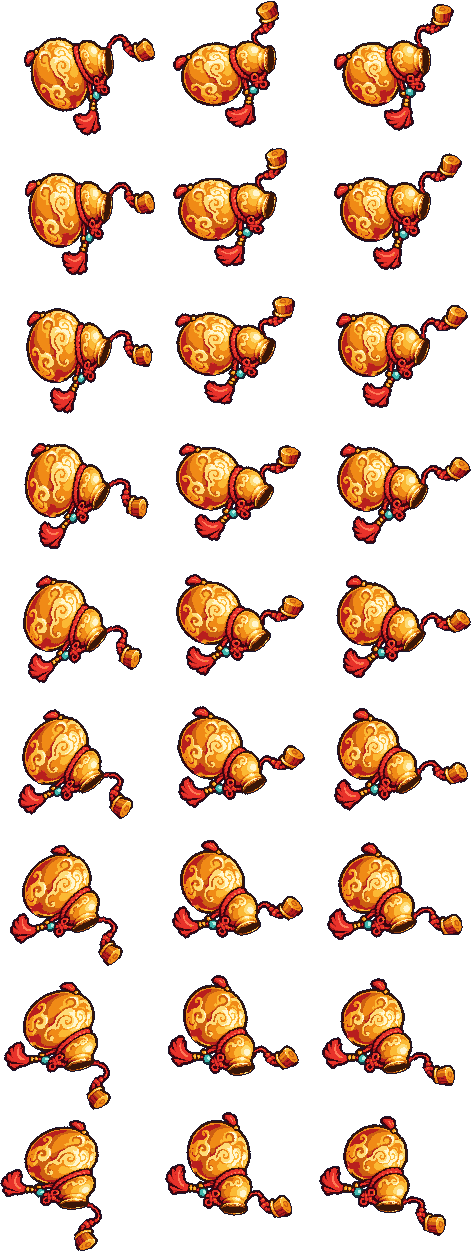
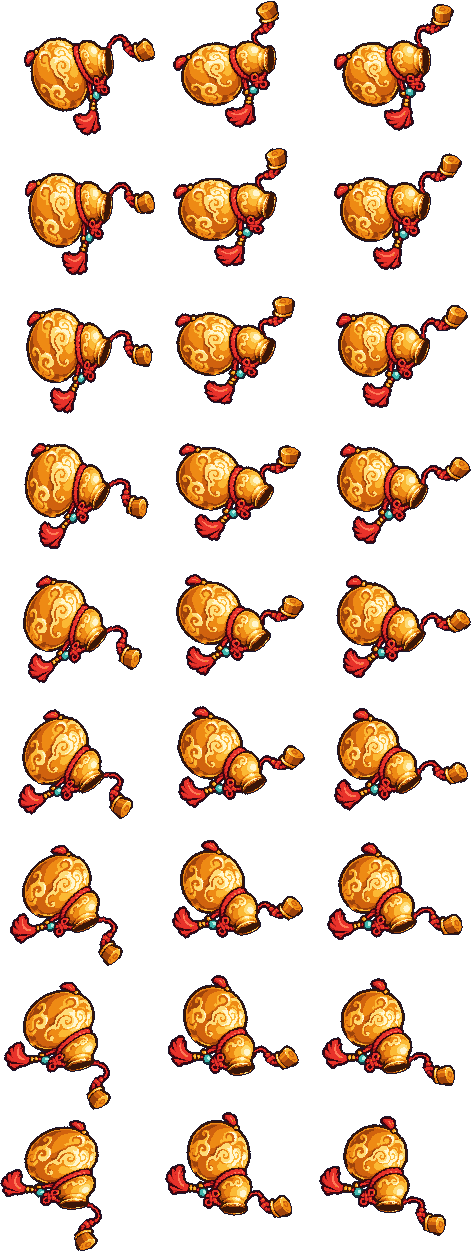
Hồ Lô: bóng đỏ sẫm của vỏ thuộc về vỏ (không tô bằng màu dây đỏ), dải vàng dịu hơn
- pb_vat.py: luật chất liệu nhận cả r g b; dây / tua đỏ = sắc đỏ nằm sát chỗ đỏ tươi (do_tuoi),
  phần bóng ngả đỏ dưới bụng hồ lô về lại dải vàng cam của vỏ.
- Dải vàng của vỏ chỉnh lại ba sắc độ tối cho bụng hồ lô tròn mà không gắt.

Claude-Session: https://claude.ai/code/session_01LXgvgfBwfNKrHBpiNWvQTt

diff --git a/tools/art/pb_vat.py b/tools/art/pb_vat.py
@@ -22,6 +22,7 @@ import json
 import math
 import sys
 from pathlib import Path
+from types import SimpleNamespace
 
 import numpy as np
 from PIL import Image, ImageDraw
@@ -139,8 +140,16 @@ def hexrgb(h):
 
 
 def hue(lo, hi):
-    """Luật chọn chất liệu theo sắc (độ): lo..hi, vòng qua 360 nếu lo > hi."""
-    return (lambda h: (h >= lo) & (h < hi)) if lo <= hi else (lambda h: (h >= lo) | (h < hi))
+    """Luật chọn chất liệu theo sắc (độ): lo..hi, vòng qua 360 nếu lo > hi. Luật nhận F (h sắc, r g b 0..1 của từng điểm tranh)."""
+    return (lambda F: (F.h >= lo) & (F.h < hi)) if lo <= hi else (lambda F: (F.h >= lo) | (F.h < hi))
+
+
+def do_tuoi(lo=335, hi=12, near=5):
+    """Dây, tua đỏ: sắc đỏ nằm sát chỗ đỏ tươi. Bóng đỏ sẫm của vỏ (cùng sắc đỏ nhưng không sát chỗ nào đỏ tươi) không tính, để nó thuộc về vỏ."""
+    def luat(F):
+        red = hue(lo, hi)(F)
+        return red & nd.binary_dilation(red & (F.r > 0.8) & (F.g < 0.2 * F.r), iterations=near)
+    return luat
 
 
 class Bang:
@@ -186,8 +195,9 @@ class Bang:
         h = np.where(mx == r, ((g - b) / d) % 6, np.where(mx == g, (b - r) / d + 2, (r - g) / d + 4)) * 60
         sure = op & ((mx - mn) / np.maximum(mx, 1e-6) > 0.28) & (mx > 0.22)
         lab = np.zeros(op.shape, np.int32)
-        for j, (_, luat, _) in enumerate(self.mats, 1):
-            lab[sure & (lab == 0) & luat(h)] = j
+        F = SimpleNamespace(h=h, r=r, g=g, b=b)
+        for j, (_, luat, _) in enumerate(self.mats, 1):       # luật khai trước được chọn trước
+            lab[sure & (lab == 0) & luat(F)] = j
         i = nd.distance_transform_edt(lab == 0, return_distances=False, return_indices=True)
         return np.where(op, lab[i[0], i[1]], 0)
 
@@ -303,9 +313,9 @@ def show(rgba, path, z):
 # axis: trục thân (co giãn); aim: hướng miệng nhìn ra (xoay theo hướng đánh); piv: điểm tựa, nằm sau miệng 95 điểm tranh theo hướng aim
 HL = dict(axis=-57.0, aim=-40.0, piv=(220, 229), bulb=(210, 290, 84), bulb2=(250, 197, 48), mouth=(293, 168), k=2.7, R=246)
 NUT = dict(poly=[(246, 156), (258, 130), (300, 117), (330, 121), (424, 136), (424, 40), (246, 40)], piv=(277, 153))   # nút gỗ + dây vắt qua cổ; điểm buộc nằm khuất sau vành miệng
-HL_MAU = [   # vỏ hồ lô sơn vàng cam (cả nút gỗ, vành miệng, hạt vàng), dây + tua đỏ, hạt ngọc lam
-    ('vang', hue(14, 75), ['#351608>#3a1608', '#8a3410>#96400e', '#c35215>#cc5e12', '#ee8418>#f08a16', '#f9b93b>#fbb934', '#fadd7d>#fddc78', '#fcf5d2>#fff6d0']),
-    ('do', hue(335, 14), ['#240304>#3a0610', '#6a1012>#7c1016', '#a82418>#b81e1e', '#e62a22>#e8322a', '#ff6a50>#ff7858']),
+HL_MAU = [   # dây + tua đỏ, vỏ hồ lô sơn vàng cam (cả nút gỗ, vành miệng, hạt vàng; bóng của vỏ ngả đỏ sẫm), hạt ngọc lam
+    ('do', do_tuoi(), ['#240304>#3a0610', '#6a1012>#7c1016', '#a82418>#b81e1e', '#e62a22>#e8322a', '#ff6a50>#ff7858']),
+    ('vang', hue(335, 75), ['#351608>#3a1608', '#8a3410>#9c420c', '#c35215>#d0620e', '#ee8418>#ee8a14', '#f9b93b>#fbb934', '#fadd7d>#fddc78', '#fcf5d2>#fff6d0']),
     ('ngoc', hue(140, 215), ['#1f1b1c>#143c40', '#51aba7>#3fb6ae', '#aae4d4>#b8f4e6']),
 ]
 
